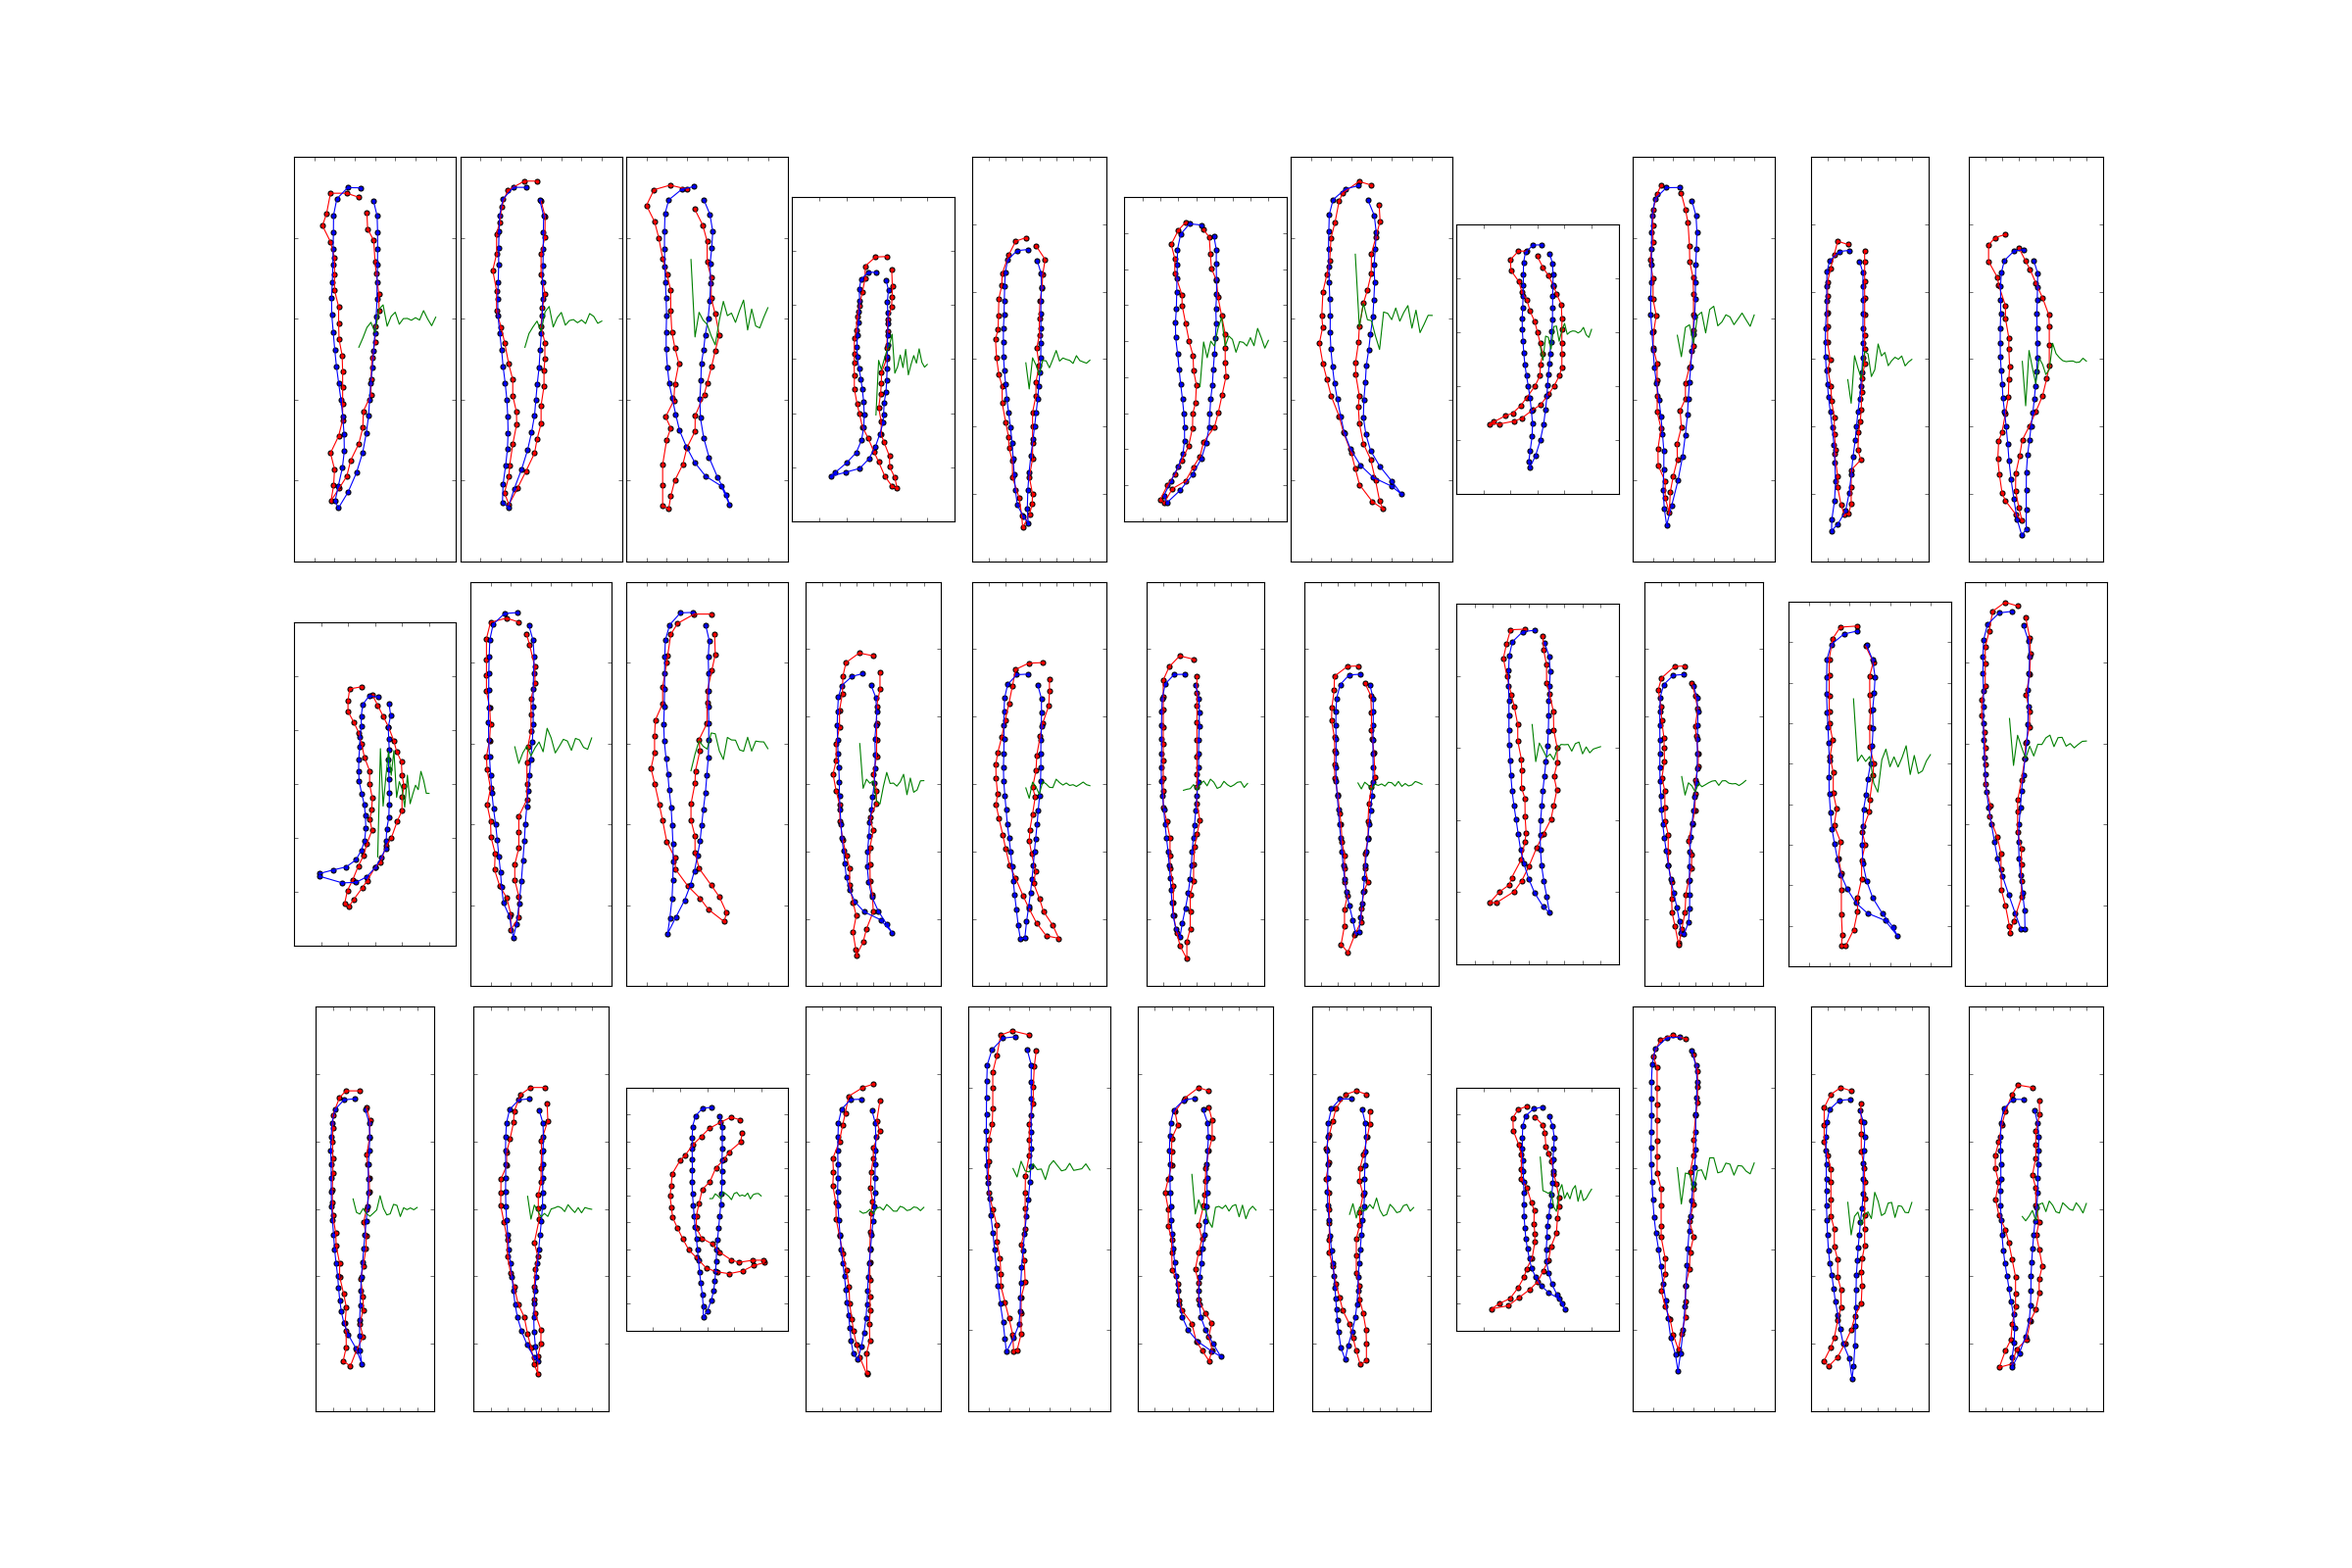
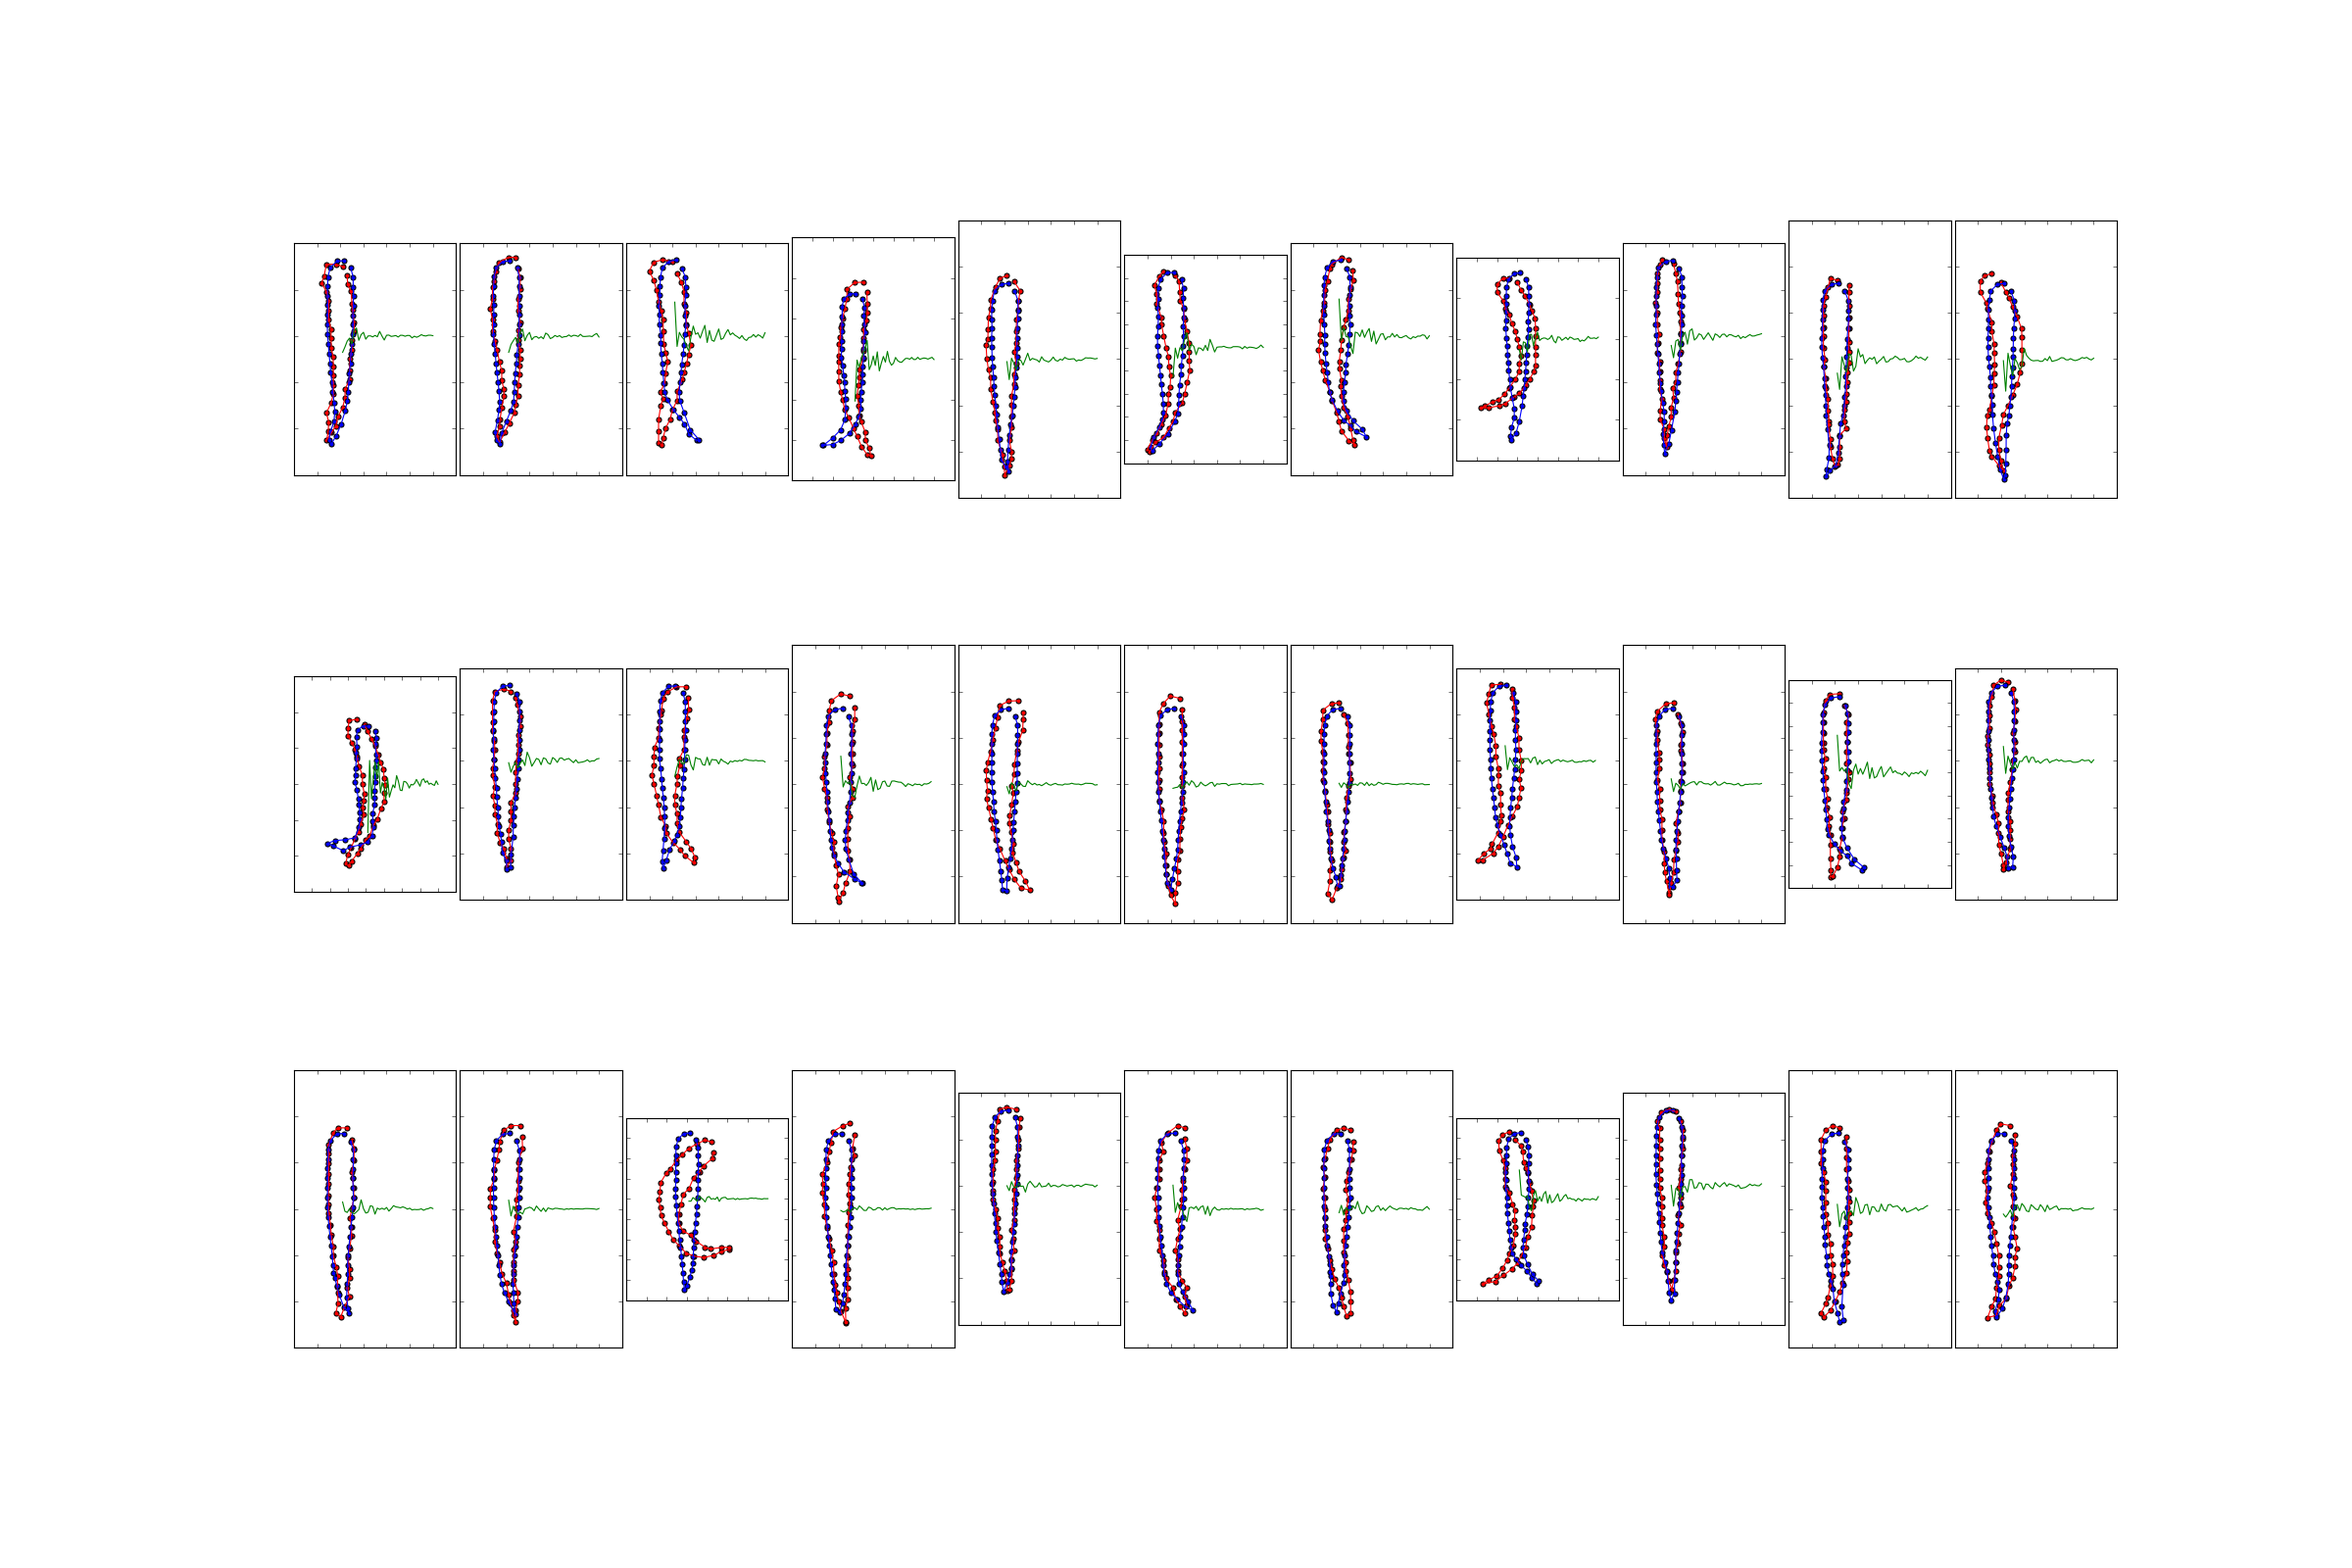
k scatter fit

diff --git a/scripts/pca/pca.py b/scripts/pca/pca.py
@@ -62,9 +62,9 @@ from utils.geometry import rotate
 
 
 class AnimalFitting:
-    HEAD_RANGE = 3  # x on each side + head -> 2x + 1 points altogether
-    BOTTOM_RANGE = 3  # x on each side + bottom -> 2x + 1 points altogether
-    EIGEN_DIM = 20
+    HEAD_RANGE = 19  # x on each side + head -> 2x + 1 points altogether
+    BOTTOM_RANGE = 19  # x on each side + bottom -> 2x + 1 points altogether
+    EIGEN_DIM = 10
     FEATURES = 40
 
     def __init__(self, X):
@@ -75,6 +75,13 @@ class AnimalFitting:
         # SPLIT TRAIN / TEST DATA 0.9 / 0.1
         # indexing of X_train beginning at head ccw
         self.X_train, self.X_test = np.split(X, [self.train_n])
+
+        # GENERAL PCA
+        self.pca = PCA(AnimalFitting.EIGEN_DIM)
+        self.pca.fit(AnimalFitting.get_pca_compatible_data(self.X_train))
+        self.eigen_vectors = self.pca.components_.T
+        self.mean = np.expand_dims(self.pca.mean_, axis=0).T
+        self.eigen_values = self.pca.explained_variance_
 
         # TRAIN PCA TWICE FOR BOTH HEAD AND BOTTOM SITUATIONS
         self.pca_head = PCA(AnimalFitting.EIGEN_DIM)
@@ -108,7 +115,7 @@ class AnimalFitting:
     def get_bottom_fits(self, X):
         """
             Accepts [n * c * 2] ndarrays where n is number of examples, c is number of points in contour.
-            Returns [n * c * 2] ndarray of reconstructions and [n * EIGEN_DIM] of coordinates in orthogonal space of egienvectors
+            Returns [n * c * 2] ndarray of reconstructions and [n * EIGEN_DIM] of coordinates in orthogonal space of eigenvectors
         """
         # transpose for column vectors
         bottom_example = self.get_pca_compatible_data(self.extract_bottoms(X)).T
@@ -122,10 +129,32 @@ class AnimalFitting:
 
         return bottom_fit, bottom_coordinates.T
 
+    def get_scatter_fits(self, X, idxs):
+        """
+            Accepts [n * c * 2] ndarrays where n is number of examples, c is number of points in contour
+            idxs are selected indexes of contour
+        """
+        # transpose for column vectors
+        scatters = self.get_pca_compatible_data(X[:, idxs]).T
+
+        # idxs to 2D idxs
+        idxs = np.vstack((2*idxs, 2*idxs + 1))
+        idxs = idxs.flatten(order='F')
+
+        # TODO use only one pca, not mean_head
+        scatters = scatters - self.mean[idxs, :]
+        coordinates = np.dot(self.eigen_vectors[idxs, :].T, scatters)
+        fit = np.dot(self.eigen_vectors, coordinates) + self.mean
+
+        # transpose back and to original dataframe
+        fit = AnimalFitting.get_data_from_pca_data(fit.T)
+
+        return fit, coordinates.T
+
     def show_fits(self, X):
         """
             Accepts [n * c * 2] ndarrays where n is number of examples, c is number of points in contour
-            Returns [n * c * 2] ndarray of reconstructions and [n * EIGEN_DIM] of coordinates in orthogonal space of egienvectors
+            Returns [n * c * 2] ndarray of reconstructions and [n * EIGEN_DIM] of coordinates in orthogonal space of eigenvectors
         """
         head_examples = self.extract_heads(X)
         bottom_examples = self.extract_bottoms(X)
@@ -134,9 +163,26 @@ class AnimalFitting:
 
         self.plot_fits(X, head_examples, head_fits, bottom_examples, bottom_fits)
 
+    def show_scatter_fits(self, X, idxs):
+        """
+            Accepts [n * c * 2] ndarrays where n is number of examples, c is number of points in contour
+            Returns [n * c * 2] ndarray of reconstructions and [n * EIGEN_DIM] of coordinates in orthogonal space of egienvectors
+        """
+        scatters = X[:, idxs]
+        fits, _ = self.get_scatter_fits(X, idxs)
+
+        self.plot_scatter_fits(X, scatters, fits)
+
     def show_random_fit_result(self, n=3):
         for j in [random.randint(0, self.X_test.shape[0] - 1) for _ in range(n)]:
             self.show_fits(np.copy(self.X_test[j:j + 1, :]))
+
+    def show_random_scatter_fit(self, n=3, k=10):
+        idxs = np.arange(AnimalFitting.FEATURES)
+        np.random.shuffle(idxs)
+        idxs = idxs[:k]
+        for j in [random.randint(0, self.X_test.shape[0] - 1) for _ in range(n)]:
+            self.show_scatter_fits(np.copy(self.X_test[j:j + 1, :]), idxs)
 
     def plot_fits(self, examples, head_examples, head_fits, bottom_examples, bottom_fits):
         for example, head_example, head_fit, bottom_example, bottom_fit in \
@@ -177,6 +223,20 @@ class AnimalFitting:
             plt.axis('equal')
             plt.show()
 
+    def plot_scatter_fits(self, examples, scatters, fits):
+        for example, scatter, fit in zip(examples, scatters, fits):
+            plt.plot(np.append(example[:, 0], example[0, 0]), np.append(example[:, 1], example[0, 1]), c='g',
+                     label='Test example')
+            plt.plot(np.append(fit[:, 0], fit[0, 0]), np.append(fit[:, 1], fit[0, 1]), c='r',
+                     label='Fit')
+            plt.scatter(np.append(scatter[:, 0], scatter[0, 0]),
+                        np.append(scatter[:, 1], scatter[0, 1]),
+                        label='Scatter', c='b', alpha=0.75)
+            plt.title("Scatter fits")
+            plt.legend(loc='best')
+            plt.axis('equal')
+            plt.show()
+
     def view_ant_composition(self, X, type='head'):
         if type == 'head':
             pca = self.pca_head
@@ -211,6 +271,9 @@ class AnimalFitting:
         X_R, X_C = self.get_bottom_fits(self.X_test)
 
         generate_ants_reconstructed_figure(self.X_test, X_R, X_C, rows, columns, fnames)
+
+    def generate_dataset_figure(self, rows, columns, fnames):
+        generate_ants_reconstructed_figure(self.X_train, np.zeros_like(self.X_train), np.zeros((self.X_train.shape[0], AnimalFitting.EIGEN_DIM)), rows, columns, fnames)
 
     @staticmethod
     def plot_contour_with_annotations(X):
@@ -316,8 +379,8 @@ class AnimalFitting:
 
 if __name__ == '__main__':
     # REPRODUCABILITY
-    random.seed(0)
-    np.random.seed(0)
+    # random.seed(0)
+    # np.random.seed(0)
 
     PROJECT = 'zebrafish'
     logging.basicConfig(level=logging.INFO)
@@ -359,12 +422,15 @@ if __name__ == '__main__':
 
     # VIEW PCA RECONSTRUCTING RESULTS
     # pca.show_random_fit_result(50)
+    pca.show_random_scatter_fit(10, 10)
+    pca.show_random_scatter_fit(10, 20)
 
     # GENERATING RESULTS FIGURE
     # pca.generate_eigen_ants_figure()
     rows = 3
     columns = 11
-    pca.generate_ants_reconstructed_figure(rows, columns, "3_3_20_bottom")
+    # pca.generate_dataset_figure(rows, columns, "train_set")
+    # pca.generate_ants_reconstructed_figure(rows, columns, "3_3_20_bottom")
 
     # VIEW I-TH ANT AS COMPOSITION
     i = 2

diff --git a/scripts/pca/ant_extract.py b/scripts/pca/ant_extract.py
@@ -77,6 +77,7 @@ def get_feature_vector(region, number_of_data, right_orientation):
             i += 1
         p = (p + 1) % con_length
 
+    # import matplotlib.pyplot as plt
     # plt.axis('equal')
     # plt.scatter(contour[:,0], contour[:,1], c='r')
     # plt.scatter(result[:,0], result[:,1], c='g')

diff --git a/scripts/pca/results_generate.py b/scripts/pca/results_generate.py
@@ -40,6 +40,7 @@ def generate_ants_image(X, X_R, X_C, r, c, fname, fold):
     for j in range(len(X)):
         ax1 = plt.subplot(gs1[j])
         plt.axis('on')
+        plt.axis('equal')
         ax1.set_xticklabels([])
         ax1.set_yticklabels([])
         ax1.set_aspect('equal')
